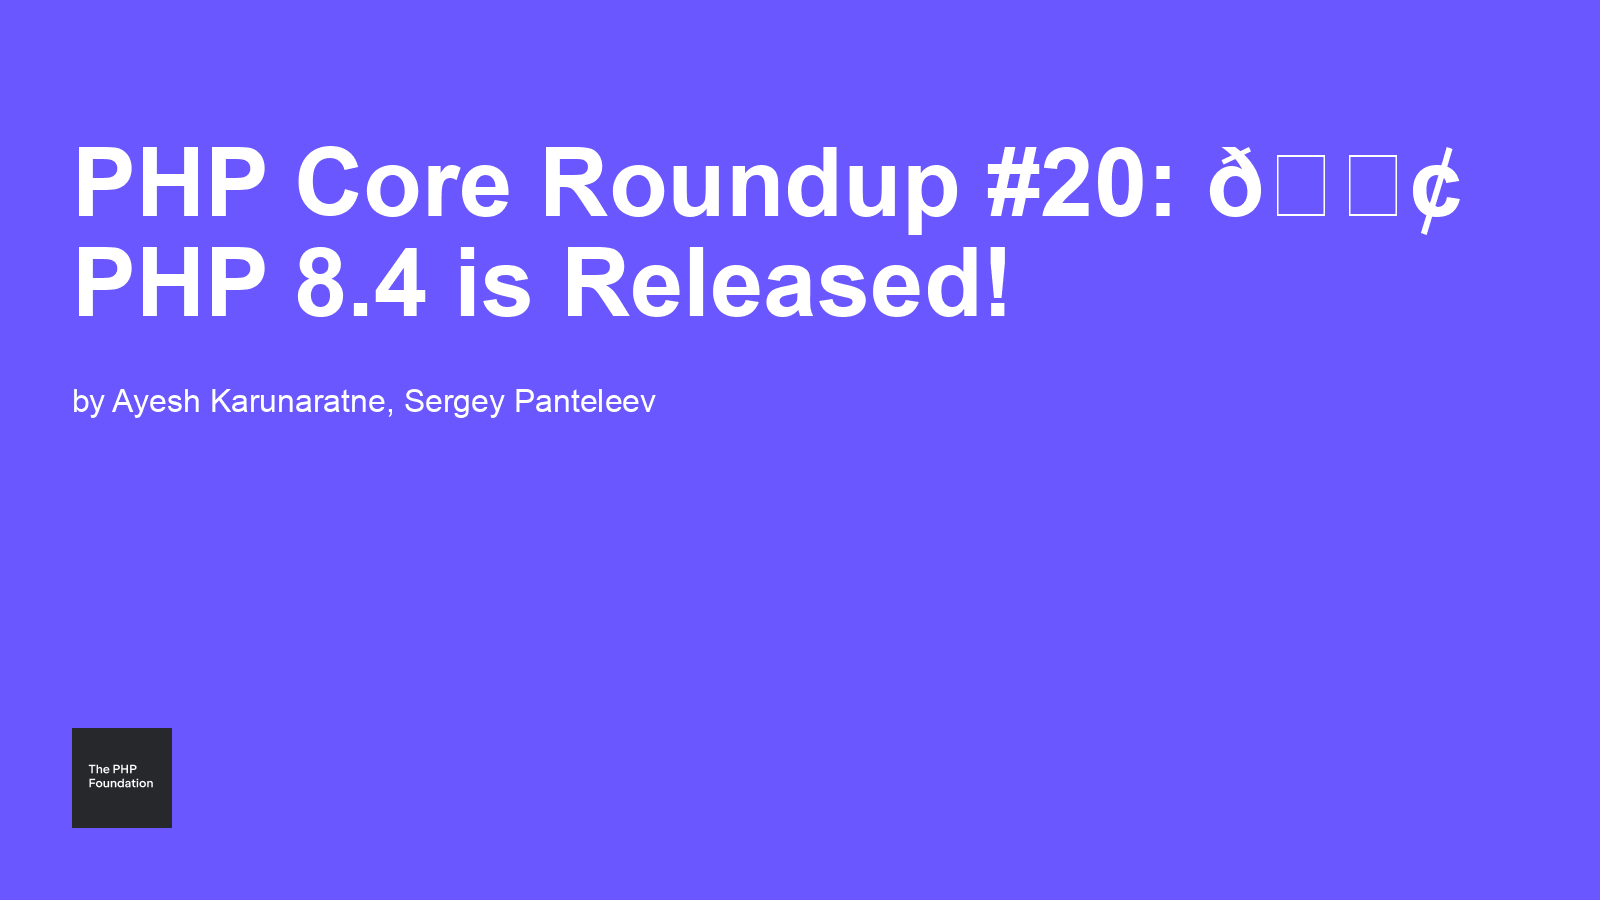
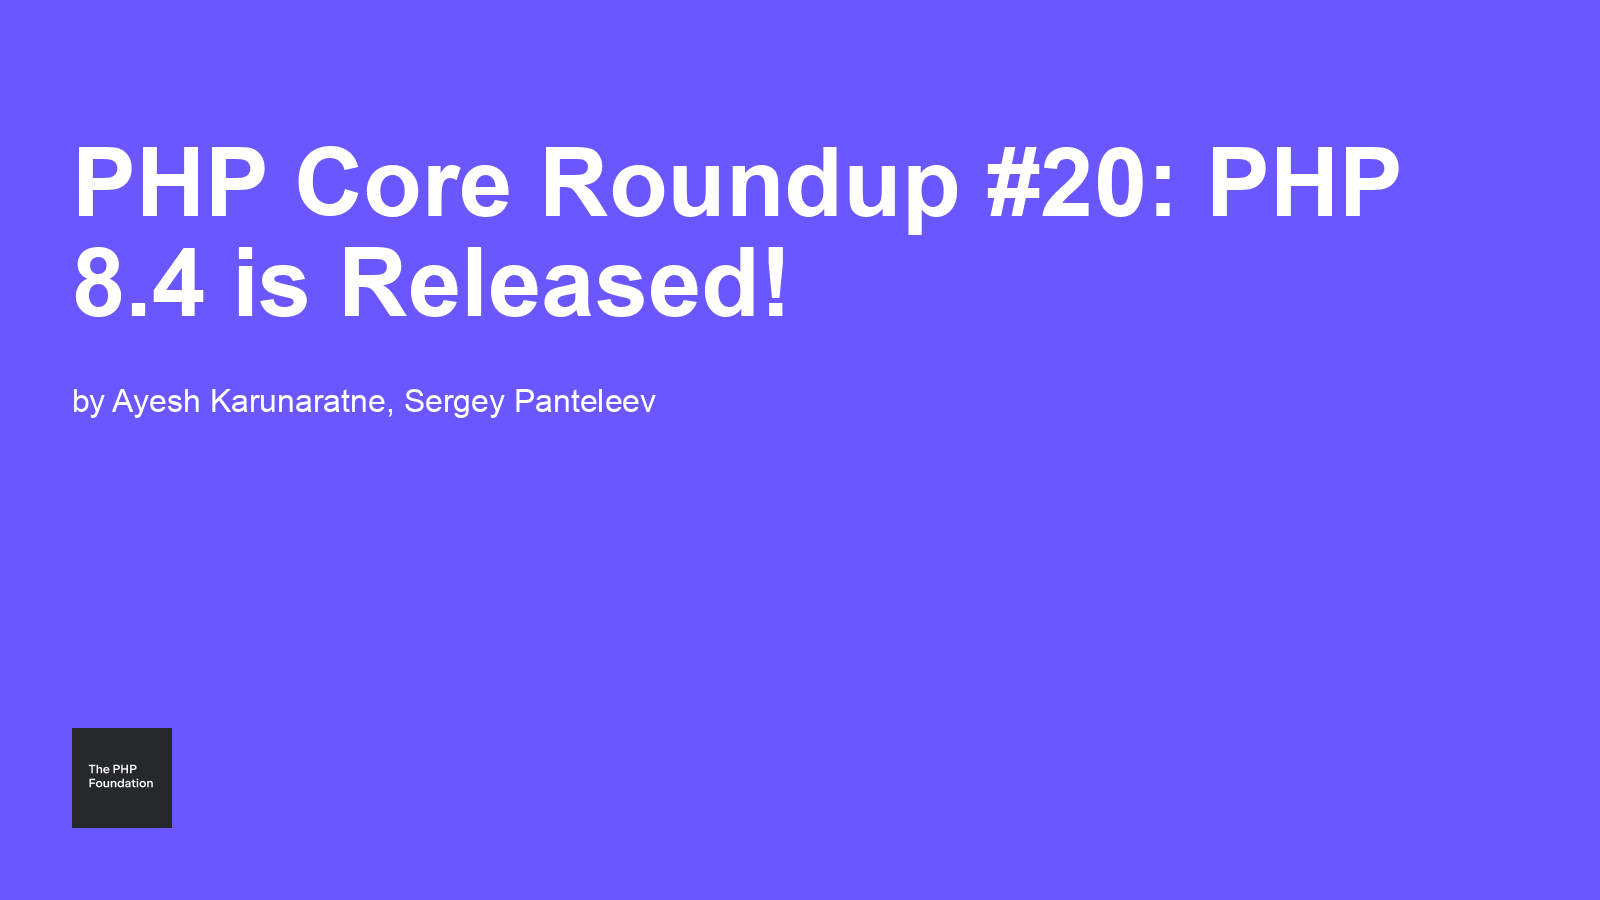
deploy: e74094db3df6a656fe085c08579de2cea4d6695e

Changed region(s): [[0.0312, 0.2489, 0.625, 0.3733], [0.75, 0.1556, 0.9062, 0.2489]]

diff --git a/blog/2024/11/21/php-core-roundup-20-php84/index.html b/blog/2024/11/21/php-core-roundup-20-php84/index.html
@@ -1,7 +1,7 @@
 <!DOCTYPE html>
 <html lang="en">
 <head>
-    <title>PHP Core Roundup #20: 📢 PHP 8.4 is Released! &mdash; The PHP Foundation &mdash; Supporting, Advancing, and Developing the PHP Language</title>
+    <title>PHP Core Roundup #20: PHP 8.4 is Released! &mdash; The PHP Foundation &mdash; Supporting, Advancing, and Developing the PHP Language</title>
     <meta name="description" content="The PHP Foundation &mdash; Supporting, Advancing, and Developing the PHP Language">
     <meta charset="utf-8">
     <meta name="theme-color" content="#ffffff">
@@ -21,14 +21,14 @@
 
     <meta property="og:url" content="https://thephp.foundation/blog/2024/11/21/php-core-roundup-20-php84/">
     <meta property="og:type" content="website">
-    <meta property="og:title" content="PHP Core Roundup #20: 📢 PHP 8.4 is Released!">
+    <meta property="og:title" content="PHP Core Roundup #20: PHP 8.4 is Released!">
     <meta property="og:description" content="The PHP Foundation &mdash; Supporting, Advancing, and Developing the PHP Language">
     <meta property="og:image" content="https://thephp.foundation/assets/share/2024-11-21-php-core-roundup-20-php84.png">
 
     <meta name="twitter:card" content="summary_large_image">
     <meta property="twitter:domain" content="https://thephp.foundation">
     <meta property="twitter:url" content="https://thephp.foundation/blog/2024/11/21/php-core-roundup-20-php84/">
-    <meta name="twitter:title" content="PHP Core Roundup #20: 📢 PHP 8.4 is Released!">
+    <meta name="twitter:title" content="PHP Core Roundup #20: PHP 8.4 is Released!">
     <meta name="twitter:description" content="The PHP Foundation &mdash; Supporting, Advancing, and Developing the PHP Language">
     <meta name="twitter:image" content="https://thephp.foundation/assets/share/2024-11-21-php-core-roundup-20-php84.png">
 
@@ -153,7 +153,7 @@
 
 <div class="bg-white px-6 lg:px-8 my-16" itemscope itemtype="https://schema.org/Article">
     <div class="mx-auto max-w-3xl text-base leading-7 text-gray-700">
-        <h1 class="mt-2 text-3xl font-bold tracking-tight text-gray-900 sm:text-4xl" itemprop="name">PHP Core Roundup #20: 📢 PHP 8.4 is Released!</h1>
+        <h1 class="mt-2 text-3xl font-bold tracking-tight text-gray-900 sm:text-4xl" itemprop="name">PHP Core Roundup #20: PHP 8.4 is Released!</h1>
 
         <div class="flex items-center gap-x-4 text-xs mt-2">
                 <div>

diff --git a/blog/2024/11/19/pie-pre-release/index.html b/blog/2024/11/19/pie-pre-release/index.html
@@ -206,7 +206,7 @@ PIE development is commissioned by the <a href="https://www.sovereign.tech/tech/
                                 <a href="https://thephp.foundation/blog/2024/11/21/php-core-roundup-20-php84/"
                    class="flex flex-col w-1/2 border p-2 mx-2 rounded hover:border-[rgba(127,82,255,.8)] transition-all no-underline">
                     <div class="mb-1 text-sm text-gray-600 font-medium">Next</div>
-                    <div class="font-bold text-blue-500">PHP Core Roundup #20: 📢 PHP 8.4 is Released!</div>
+                    <div class="font-bold text-blue-500">PHP Core Roundup #20: PHP 8.4 is Released!</div>
                 </a>
                             </nav>
             

diff --git a/blog/index.html b/blog/index.html
@@ -175,7 +175,7 @@
             <div class="group relative">
                 <h3 class="mt-3 mb-2 text-lg font-semibold leading-6">
                     <a href="https://thephp.foundation/blog/2024/11/21/php-core-roundup-20-php84/" class="no-underline border-b" itemprop="url">
-                        <span itemprop="name">PHP Core Roundup #20: 📢 PHP 8.4 is Released!</span>
+                        <span itemprop="name">PHP Core Roundup #20: PHP 8.4 is Released!</span>
                     </a>
                 </h3>
                 

diff --git a/index.html b/index.html
@@ -200,7 +200,7 @@
                 </div>
                 <h3 class="mt-3 mb-2 text-lg font-semibold leading-6">
                     <a href="https://thephp.foundation/blog/2024/11/21/php-core-roundup-20-php84/" class="no-underline border-b">
-                        PHP Core Roundup #20: 📢 PHP 8.4 is Released!
+                        PHP Core Roundup #20: PHP 8.4 is Released!
                     </a>
                 </h3>
                 <div class="mt-5 line-clamp-3 text-sm leading-6 text-gray-600">

diff --git a/blog/tag/roundup/index.html b/blog/tag/roundup/index.html
@@ -199,7 +199,7 @@
             <div class="group relative">
                 <h3 class="mt-3 mb-2 text-lg font-semibold leading-6">
                     <a href="https://thephp.foundation/blog/2024/11/21/php-core-roundup-20-php84/" class="no-underline border-b">
-                        PHP Core Roundup #20: 📢 PHP 8.4 is Released!
+                        PHP Core Roundup #20: PHP 8.4 is Released!
                     </a>
                 </h3>
                                 <div class="mt-2 text-xs">
